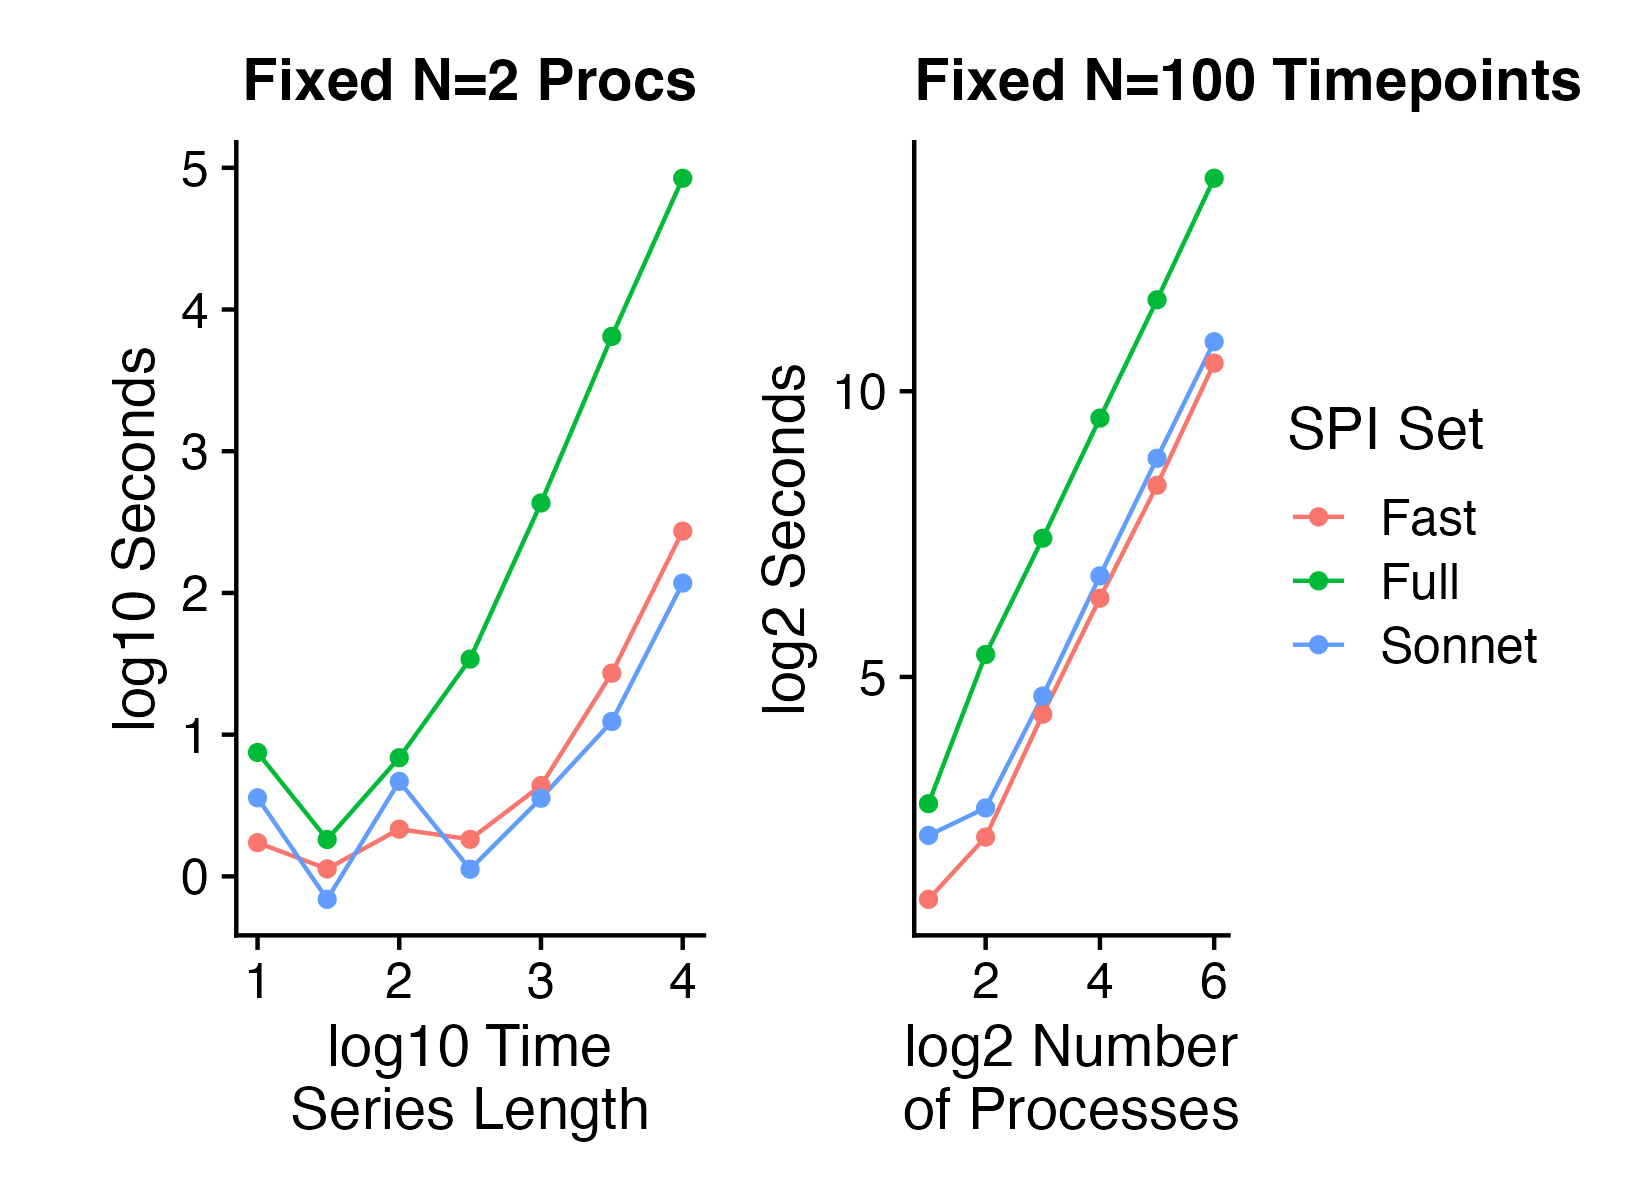
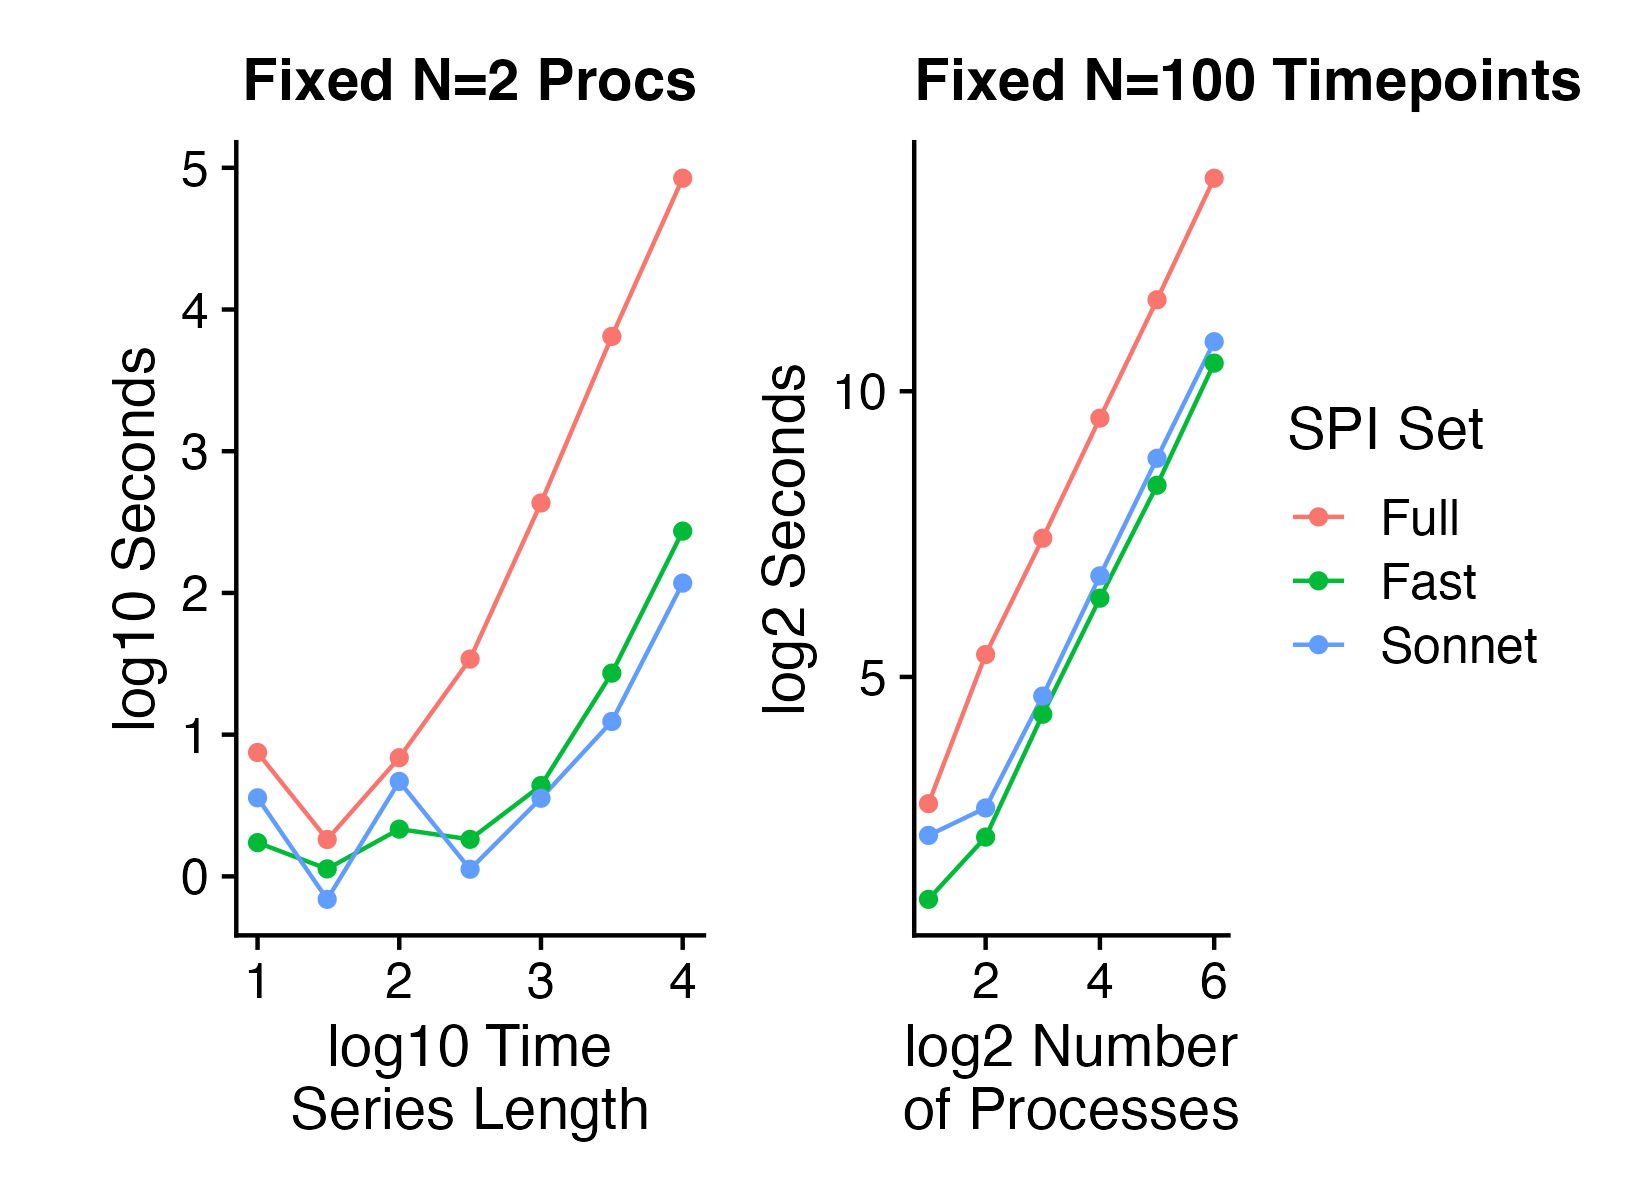
Fix link rendering and change order of SPI sets in plots

diff --git a/docs/source/faq.rst b/docs/source/faq.rst
@@ -9,14 +9,14 @@ How many SPIs should I measure for my dataset?
 **********************
 
 When first starting out, we recommend that users start with a smaller subset of available SPIs first, so they get a sense of computation times and working with the output in a lower-dimensional space.
-Users have the option to pass in a customized configuration `.yaml` file as described in the `Using a reduced SPI set<https://pyspi-toolkit.readthedocs.io/en/latest/advanced.html#using-a-reduced-spi-set>`_ documentation.
+Users have the option to pass in a customized configuration `.yaml` file as described in the `Using a reduced SPI set <https://pyspi-toolkit.readthedocs.io/en/latest/advanced.html#using-a-reduced-spi-set>`_ documentation.
 
 Alternatively, we provide two pre-defined subsets of SPIs that can serve as good starting points: `sonnet` and `fast`.
 The `sonnet` subset includes 14 SPIs selected to represent the 14 modules identified through hierarchical clustering in the original paper.
 To retain as many SPIs as possible while minimizing computation time, we also offer a `fast` option that omits the most computationally expensive SPIs.
 Either SPI subset can be toggled by setting the corresponding flag in the `Calculator()` function call as follows: 
 
-.. code_block:: 
+.. code-block:: 
 
     from pyspi import Calculator
     calc = Calculator(sonnet=True) # or calc = Calculator(fast=True)
@@ -84,7 +84,7 @@ You can fix this by manually removing `numpy` and `pandas`, and manually reinsta
     pip install numpy==1.21.1
     pip install pandas==1.3.3
 
-Thank you to GitHub user \href{https://github.com/rmzargar}{rmzargar} for reporting this issue and providing the solution.
+Thank you to GitHub user `rmzargar <https://github.com/rmzargar>`_ for reporting this issue and providing the solution.
 
 Java JVM DLL not found (specific to Mac)
 **********************
